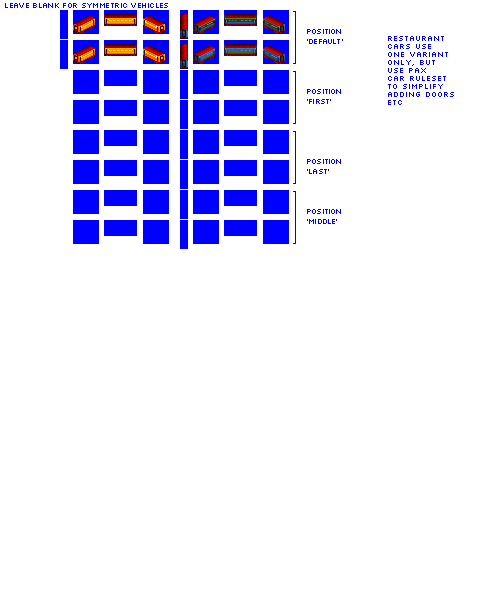
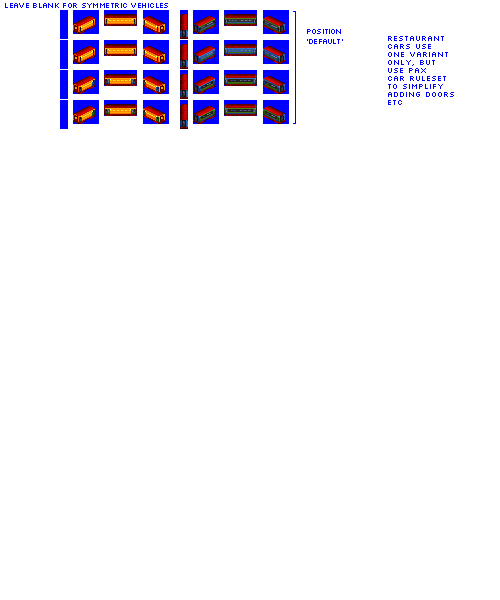
Change: extend gen 5 restaurant car with gen 6 liveries, and remove gen 6 restaurant car

diff --git a/src/vehicles/restaurant_cars.py b/src/vehicles/restaurant_cars.py
@@ -50,19 +50,7 @@ def main():
         gen=5,
         subtype="U",
         lgv_capable=True,  # for lolz
-        sprites_complete=True,
-    )
-
-    consist.add_unit(type=PaxRestaurantCar, chassis="4_axle_solid_express_32px")
-
-    # gen 6 broadly same as gen 5, but new liveries (any other difference?)
-
-    consist = PassengerRestaurantCarConsist(
-        roster_id="pony",
-        base_numeric_id=14610,
-        gen=6,
-        subtype="U",
-        lgv_capable=True,  # for lolz
+        liveries="gen_5_and_6_pax_liveries", # override default liveries from gestalt
         sprites_complete=True,
     )
 
